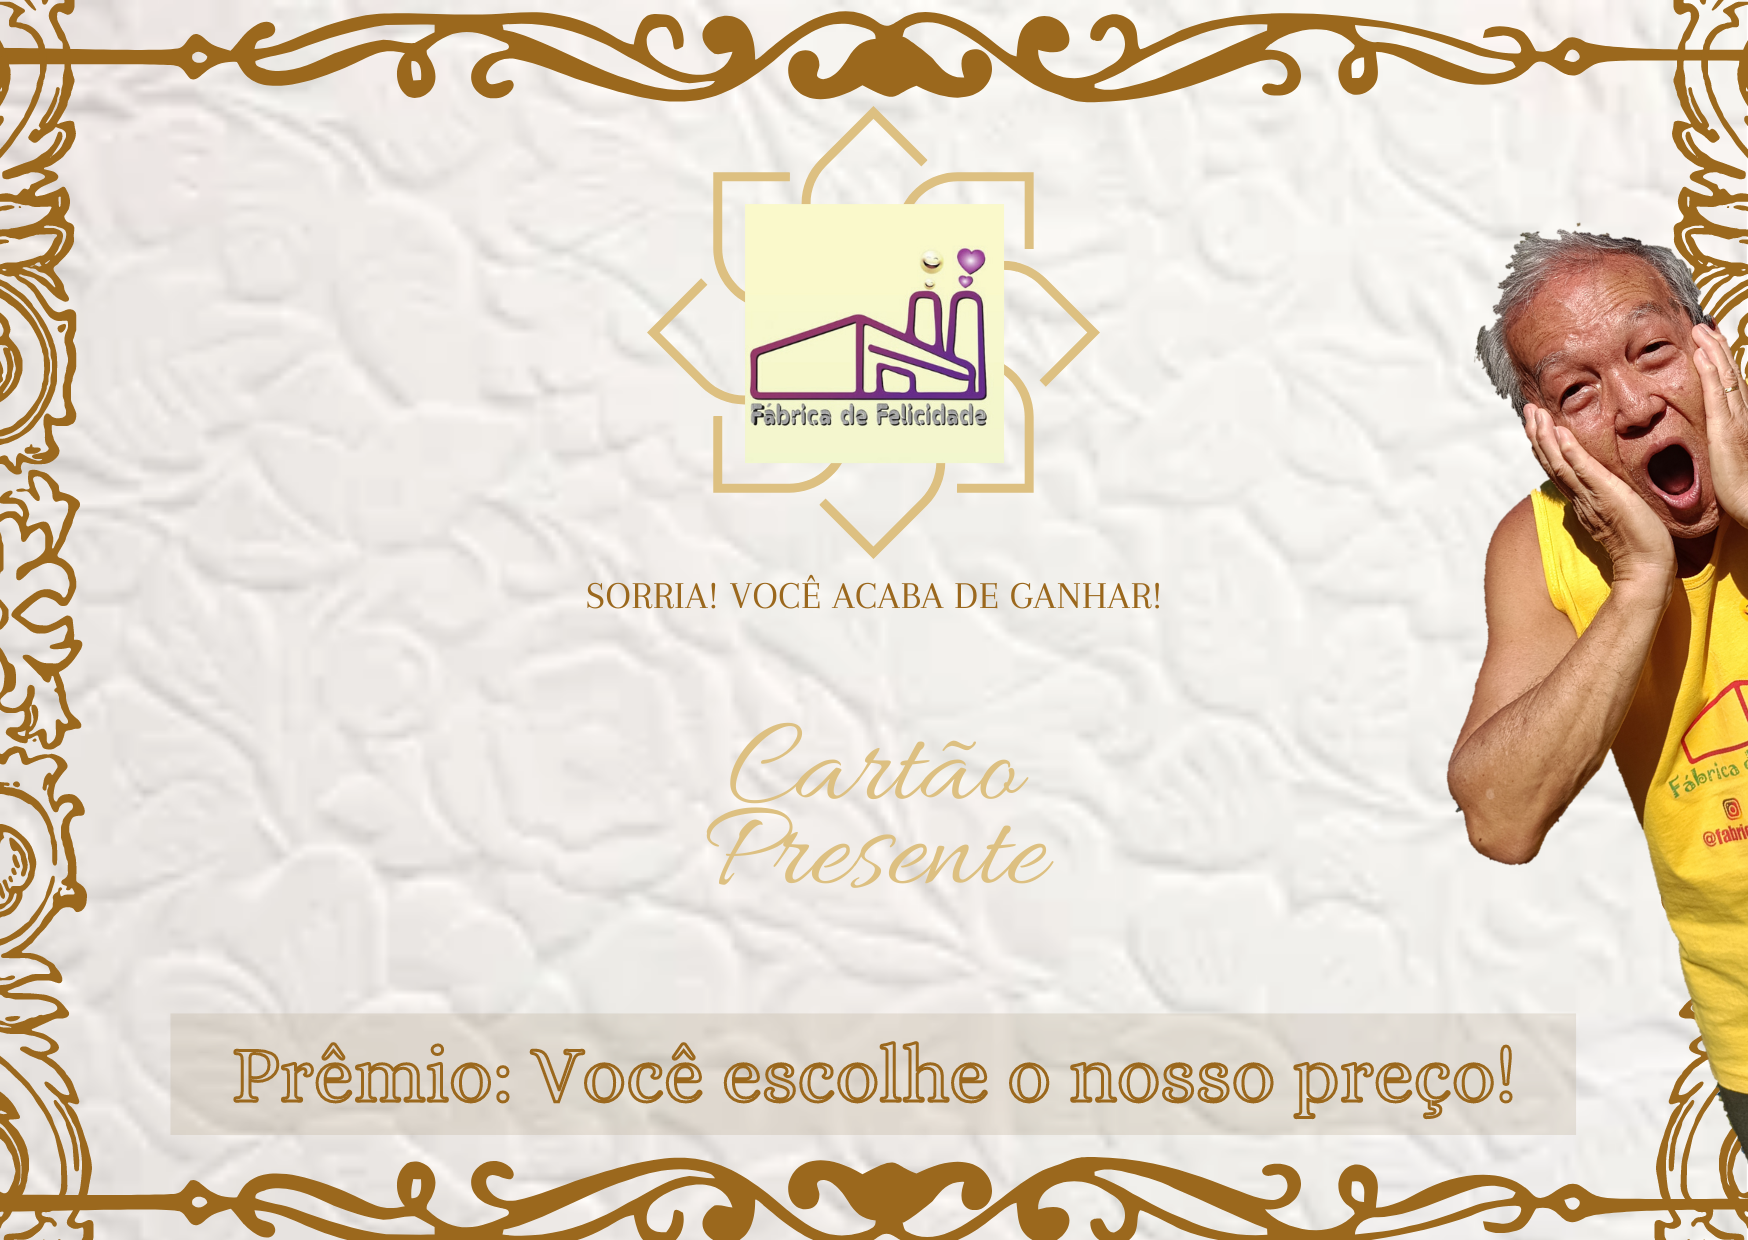
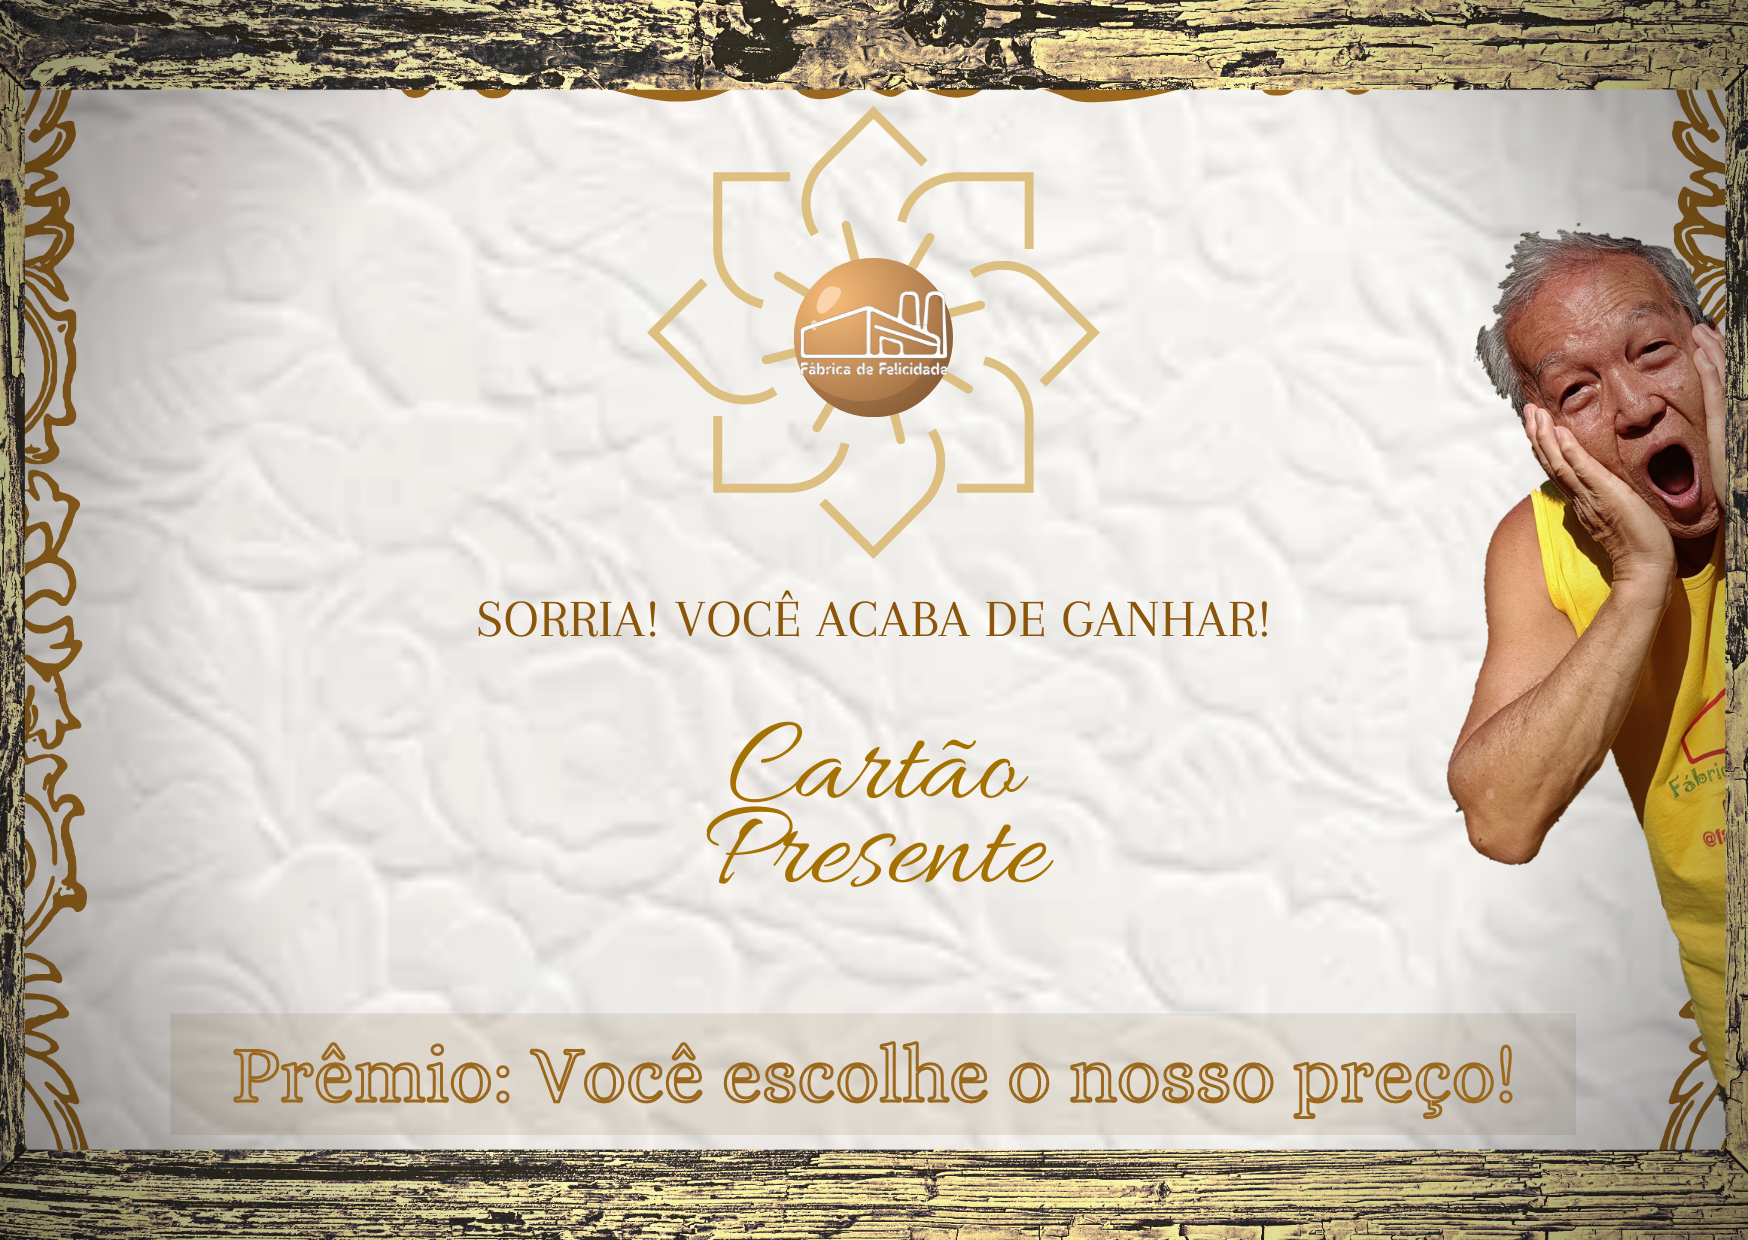
alter cupom

diff --git a/public/assets/css/style.css b/public/assets/css/style.css
@@ -457,6 +457,12 @@ p {
   filter: drop-shadow(0 0 0.98rem rgba(255, 0, 76, 0.966));
 }
 
+.glow-gold {
+  color: rgb(246, 248, 130);
+  text-align: center;
+  filter: drop-shadow(0 0 0.98rem rgba(241, 255, 44, 0.966));
+}
+
 .glow-menu {
   color: #fff;
   text-align: center;
@@ -1724,18 +1730,6 @@ ul {
   z-index: 5;
 }
 
-#cupom {
-  display: none;
-  background-color: transparent;
-  position: fixed;
-  transform: translate(-50%, 0);
-  left: 0;
-  top: 20%;
-  width: 83%;
-  z-index: 99;
-  animation: zoominoutsinglefeatured 1s infinite;
-}
-
 @keyframes fadeIn {
   0% {
     opacity: 0;
@@ -1745,12 +1739,39 @@ ul {
   }
 }
 
+#containerpromo {
+  display: none;
+  position: fixed;
+  color: rgb(124, 124, 124);
+  background: rgba(0, 0, 0, 0.93);
+  transform: translate(-50%, 0);
+  box-shadow: 5px 5px 7px rgba(33, 33, 33, 0.9);
+  transition: transform 0.15s linear;
+  z-index: 2;
+
+  left: 10rem;
+  top: 18%;
+  height: 60%;
+  width: 100%;
+  padding: 3px;
+}
+
+#cupom {
+  background-color: transparent;
+  position: fixed;
+  left: 5%;
+  top: 20%;
+  width: 100%;
+  z-index: 99;
+  animation: zoominoutsinglefeatured 1s infinite;
+}
+
 #cupom img {
   background: black;
   background-clip: content-box;
-  width: 100%;
+  width: 80%;
   height: auto;
-  border-radius: 8%;
+  border-radius: 4%;
   border: solid 5px rgba(0, 0, 0, 0.3);
   transform: rotate(-5deg);
 }

diff --git a/public/index.html b/public/index.html
@@ -89,14 +89,18 @@
   </header>
   <!-- End Header -->
 
+  <!-- ======= Promo Section ======= -->
+  <div id="containerpromo">
+    <p style="font-size: 10px;">Fechar [X]</p>
+    <div id="cupom">  
+      <img src="assets/img/Cartaopresentedourado.png" class="logo glow-gold" alt="" />
+    </div>
+  </div>
+  
 
   <!-- ======= Hero Section ======= -->
   <div id="hero" class="home">
     <div class="container">
-      <div id="cupom">
-        
-        <img src="assets/img/Cartaopresentedourado.png" class="logo glow" alt="" />
-      </div>
       <div class="hero-content">
         <p class="logo-inicio">
           <img src="assets/img/logo-sem-fundo.png" class="logo glow" alt="" />
@@ -557,13 +561,13 @@
   <script>
     AOS.init();
     function clickBody() {
-      document.getElementById("cupom").style.display = "none";
+      document.getElementById("containerpromo").style.display = "none";
       jogaConfete()
     }
     document.body.addEventListener("click", clickBody)
     setTimeout(() => {
-      document.getElementById("cupom").style.display = "block"
-    }, 11000)
+      document.getElementById("containerpromo").style.display = "block"
+    }, 1000) // voltar 11000
       
     function jogaConfete() {
       jsConfetti.addConfetti({
